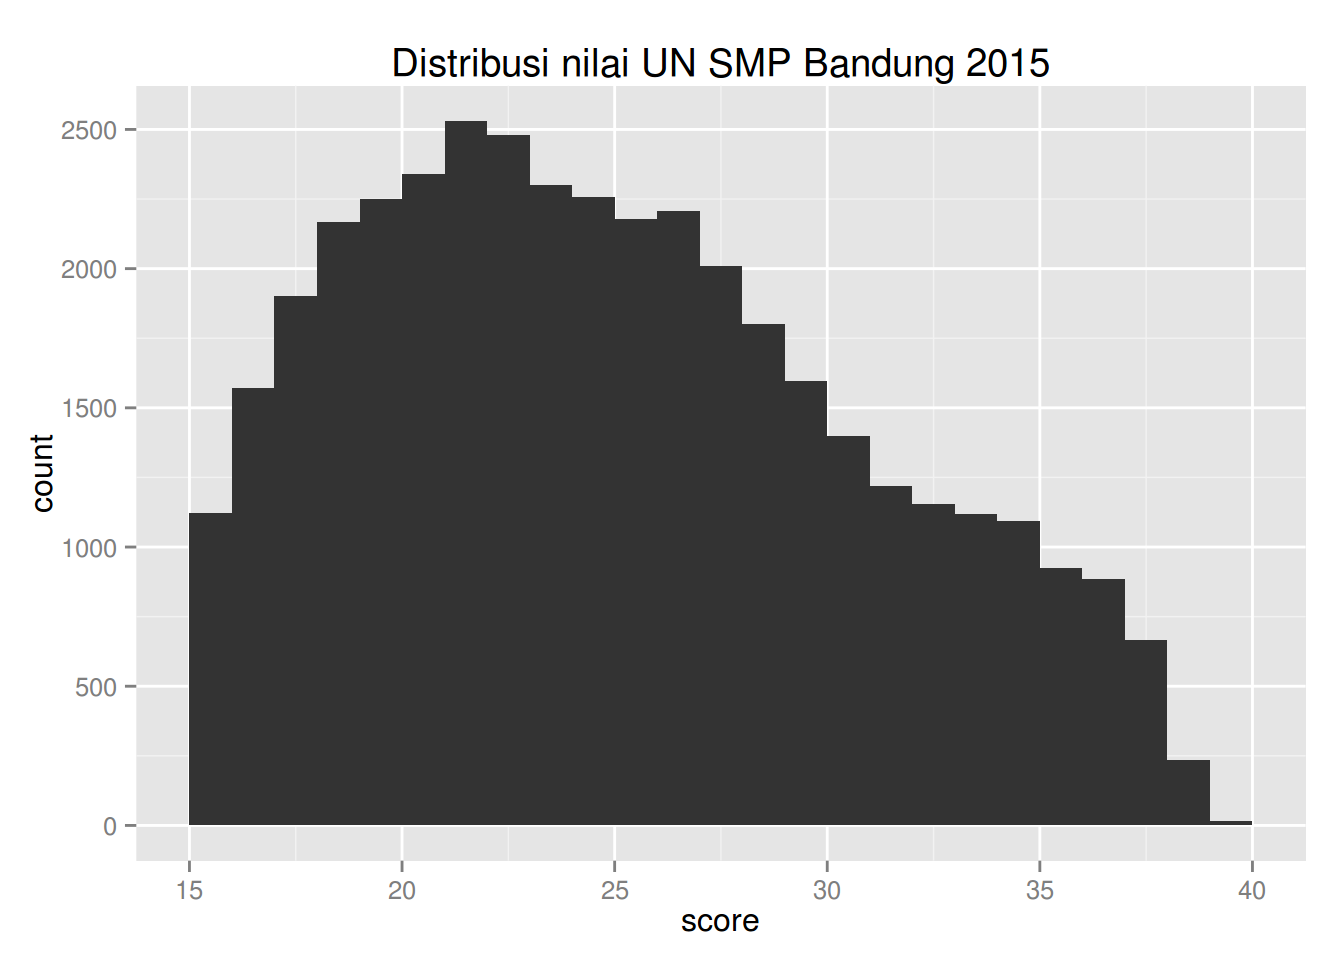
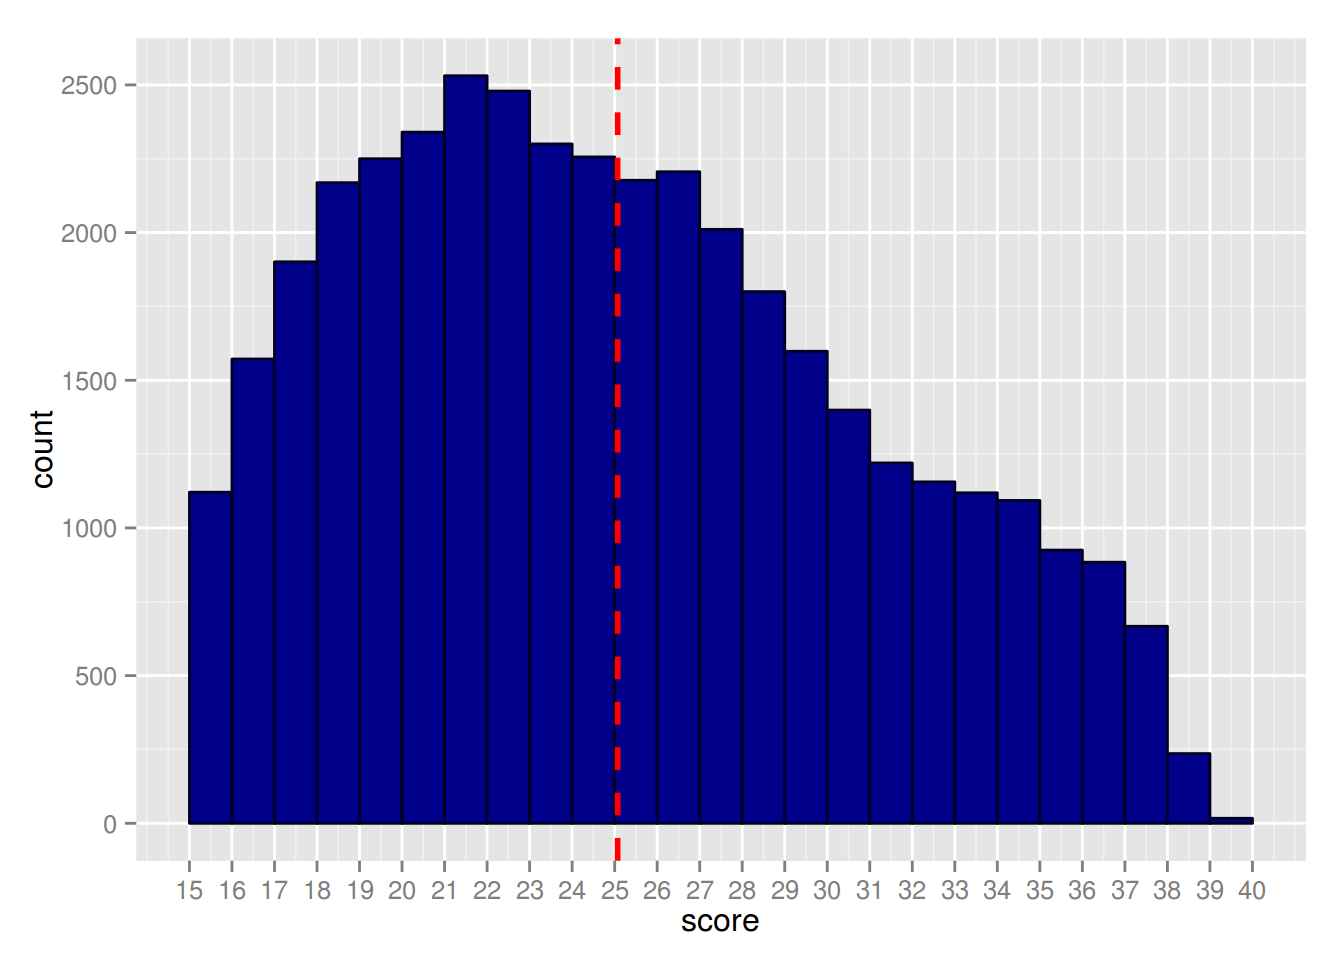
simplified table

diff --git a/index.html b/index.html
@@ -81,6 +81,7 @@ install.packages(&#39;scales&#39;)</code></pre>
 <h2>Analysis</h2>
 <p>Data source: <a href="http://disdikkota.bandung.go.id/webtemp/index.php/informasi/111-statisik-capaian-nun-smp-kota-bandung-2015?tmpl=component&amp;print=1&amp;page" class="uri">http://disdikkota.bandung.go.id/webtemp/index.php/informasi/111-statisik-capaian-nun-smp-kota-bandung-2015?tmpl=component&amp;print=1&amp;page</a>=</p>
 <pre class="r"><code>library(dplyr)
+library(plyr)
 library(pander)
 library(ggplot2)
 library(scales)</code></pre>
@@ -96,18 +97,27 @@ un_smp$score &lt;- as.double(un_smp$score)
 #           typ=typeof(un_smp$score))
 #un_smp[rep()]
 
+studentCount &lt;- sum(un_smp$freq)
+un_smp_one &lt;- data.frame(score=floor(un_smp$score), freq=un_smp$freq)
+un_smp_one &lt;- ddply(un_smp_one, ~score, summarise, freq=sum(freq))
+un_smp_one &lt;- un_smp_one %&gt;% arrange(-row_number(score))
 un_smp$cumFreq &lt;- cumsum(un_smp$freq)
+un_smp$topPercent &lt;- percent(un_smp$cumFreq / studentCount)
+un_smp_one$cumFreq &lt;- cumsum(un_smp_one$freq)
+un_smp_one$topPercent &lt;- percent(un_smp_one$cumFreq / studentCount)
+
 un_factor &lt;- c()
+un_factor_one &lt;- c()
 for (rn in rownames(un_smp)) {
   #print(typeof(un_smp[rn, &#39;score&#39;]))
   un_factor &lt;- c(un_factor, rep(un_smp[rn, &#39;score&#39;], un_smp[rn, &#39;freq&#39;]))
+  un_factor_one &lt;- c(un_factor_one, rep(floor(un_smp[rn, &#39;score&#39;]), un_smp[rn, &#39;freq&#39;]))
   #count(un_factor)
   #un_smp[rn, &#39;topPercent&#39;] &lt;- un_smp[rn, &#39;cumFreq&#39;] / count(un_factor)
 }
 un_factor &lt;- data.frame(score = un_factor)
+un_factor_one &lt;- data.frame(score = un_factor_one)
 
-studentCount &lt;- as.numeric(count(un_factor))
-un_smp$topPercent &lt;- percent(un_smp$cumFreq / studentCount)
 pander(summary(un_factor))</code></pre>
 <table>
 <colgroup>
@@ -141,14 +151,193 @@ pander(summary(un_factor))</code></pre>
 </table>
 <pre class="r"><code>#qplot(un_factor, geom=&#39;histogram&#39;)
 ggplot(data=un_factor, aes(x=score)) + 
-  geom_histogram(breaks=seq(15, 40, by=1)) + 
-  ggtitle(&#39;Distribusi nilai UN SMP Bandung 2015&#39;)</code></pre>
+  scale_x_continuous(breaks=seq(15, 40, by=1)) +
+  geom_histogram(breaks=seq(15, 40, by=1), color=&quot;#000020&quot;, fill=&quot;darkblue&quot;) + 
+  #geom_density(color=&quot;#ff6666&quot;) +
+  geom_vline(aes(xintercept=mean(score, na.rm=T)),   # Ignore NA values for mean
+               color=&quot;red&quot;, linetype=&quot;dashed&quot;, size=1)</code></pre>
 <p><img src="index_files/figure-html/unnamed-chunk-3-1.png" title="" alt="" width="672" /></p>
+<pre class="r"><code>  ggtitle(&#39;Distribusi nilai UN SMP Bandung 2015&#39;)</code></pre>
+<pre><code>## $title
+## [1] &quot;Distribusi nilai UN SMP Bandung 2015&quot;
+## 
+## attr(,&quot;class&quot;)
+## [1] &quot;labels&quot;</code></pre>
 <pre class="r"><code>#hist(un_factor)
 
-pander(un_smp, caption = &#39;Distribusi nilai UN SMP Bandung 2015 (plus kumulatif)&#39;)</code></pre>
+pander(un_smp_one, caption = &#39;Distribusi sederhana nilai UN SMP Bandung 2015 (plus kumulatif)&#39;)</code></pre>
 <table>
-<caption>Distribusi nilai UN SMP Bandung 2015 (plus kumulatif)</caption>
+<caption>Distribusi sederhana nilai UN SMP Bandung 2015 (plus kumulatif)</caption>
+<colgroup>
+<col width="11%" />
+<col width="9%" />
+<col width="13%" />
+<col width="16%" />
+</colgroup>
+<thead>
+<tr class="header">
+<th align="center">score</th>
+<th align="center">freq</th>
+<th align="center">cumFreq</th>
+<th align="center">topPercent</th>
+</tr>
+</thead>
+<tbody>
+<tr class="odd">
+<td align="center">39</td>
+<td align="center">17</td>
+<td align="center">17</td>
+<td align="center">0.0%</td>
+</tr>
+<tr class="even">
+<td align="center">38</td>
+<td align="center">236</td>
+<td align="center">253</td>
+<td align="center">0.6%</td>
+</tr>
+<tr class="odd">
+<td align="center">37</td>
+<td align="center">667</td>
+<td align="center">920</td>
+<td align="center">2.3%</td>
+</tr>
+<tr class="even">
+<td align="center">36</td>
+<td align="center">884</td>
+<td align="center">1804</td>
+<td align="center">4.6%</td>
+</tr>
+<tr class="odd">
+<td align="center">35</td>
+<td align="center">925</td>
+<td align="center">2729</td>
+<td align="center">6.9%</td>
+</tr>
+<tr class="even">
+<td align="center">34</td>
+<td align="center">1093</td>
+<td align="center">3822</td>
+<td align="center">9.7%</td>
+</tr>
+<tr class="odd">
+<td align="center">33</td>
+<td align="center">1119</td>
+<td align="center">4941</td>
+<td align="center">12.5%</td>
+</tr>
+<tr class="even">
+<td align="center">32</td>
+<td align="center">1156</td>
+<td align="center">6097</td>
+<td align="center">15.5%</td>
+</tr>
+<tr class="odd">
+<td align="center">31</td>
+<td align="center">1220</td>
+<td align="center">7317</td>
+<td align="center">18.6%</td>
+</tr>
+<tr class="even">
+<td align="center">30</td>
+<td align="center">1399</td>
+<td align="center">8716</td>
+<td align="center">22.1%</td>
+</tr>
+<tr class="odd">
+<td align="center">29</td>
+<td align="center">1598</td>
+<td align="center">10314</td>
+<td align="center">26.2%</td>
+</tr>
+<tr class="even">
+<td align="center">28</td>
+<td align="center">1800</td>
+<td align="center">12114</td>
+<td align="center">30.7%</td>
+</tr>
+<tr class="odd">
+<td align="center">27</td>
+<td align="center">2011</td>
+<td align="center">14125</td>
+<td align="center">35.8%</td>
+</tr>
+<tr class="even">
+<td align="center">26</td>
+<td align="center">2206</td>
+<td align="center">16331</td>
+<td align="center">41.4%</td>
+</tr>
+<tr class="odd">
+<td align="center">25</td>
+<td align="center">2177</td>
+<td align="center">18508</td>
+<td align="center">46.9%</td>
+</tr>
+<tr class="even">
+<td align="center">24</td>
+<td align="center">2256</td>
+<td align="center">20764</td>
+<td align="center">52.7%</td>
+</tr>
+<tr class="odd">
+<td align="center">23</td>
+<td align="center">2300</td>
+<td align="center">23064</td>
+<td align="center">58.5%</td>
+</tr>
+<tr class="even">
+<td align="center">22</td>
+<td align="center">2479</td>
+<td align="center">25543</td>
+<td align="center">64.8%</td>
+</tr>
+<tr class="odd">
+<td align="center">21</td>
+<td align="center">2531</td>
+<td align="center">28074</td>
+<td align="center">71.2%</td>
+</tr>
+<tr class="even">
+<td align="center">20</td>
+<td align="center">2340</td>
+<td align="center">30414</td>
+<td align="center">77.1%</td>
+</tr>
+<tr class="odd">
+<td align="center">19</td>
+<td align="center">2250</td>
+<td align="center">32664</td>
+<td align="center">82.8%</td>
+</tr>
+<tr class="even">
+<td align="center">18</td>
+<td align="center">2169</td>
+<td align="center">34833</td>
+<td align="center">88.3%</td>
+</tr>
+<tr class="odd">
+<td align="center">17</td>
+<td align="center">1901</td>
+<td align="center">36734</td>
+<td align="center">93.2%</td>
+</tr>
+<tr class="even">
+<td align="center">16</td>
+<td align="center">1572</td>
+<td align="center">38306</td>
+<td align="center">97.2%</td>
+</tr>
+<tr class="odd">
+<td align="center">15</td>
+<td align="center">1121</td>
+<td align="center">39427</td>
+<td align="center">100.0%</td>
+</tr>
+</tbody>
+</table>
+<pre class="r"><code>pander(un_smp, caption = &#39;Distribusi detail nilai UN SMP Bandung 2015 (plus kumulatif)&#39;)</code></pre>
+<table>
+<caption>Distribusi detail nilai UN SMP Bandung 2015 (plus kumulatif)</caption>
 <colgroup>
 <col width="11%" />
 <col width="9%" />
